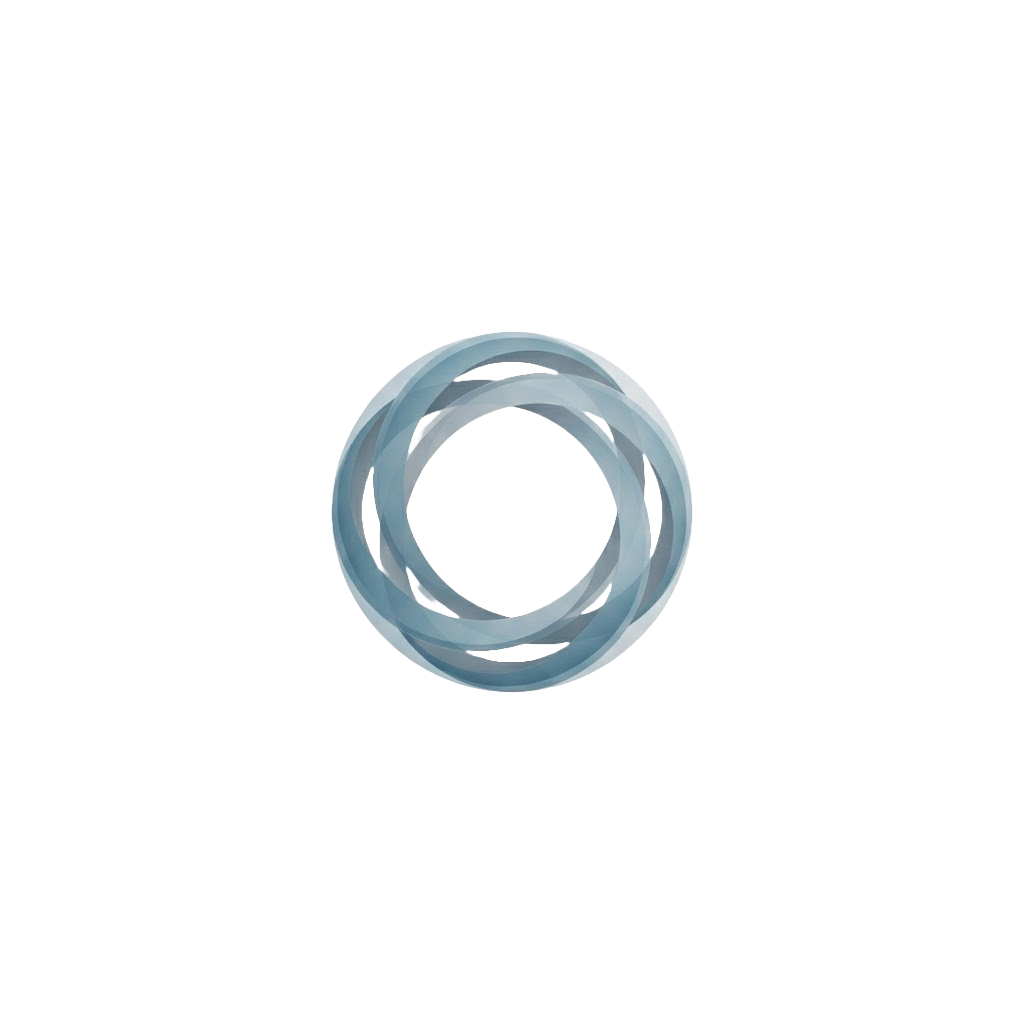
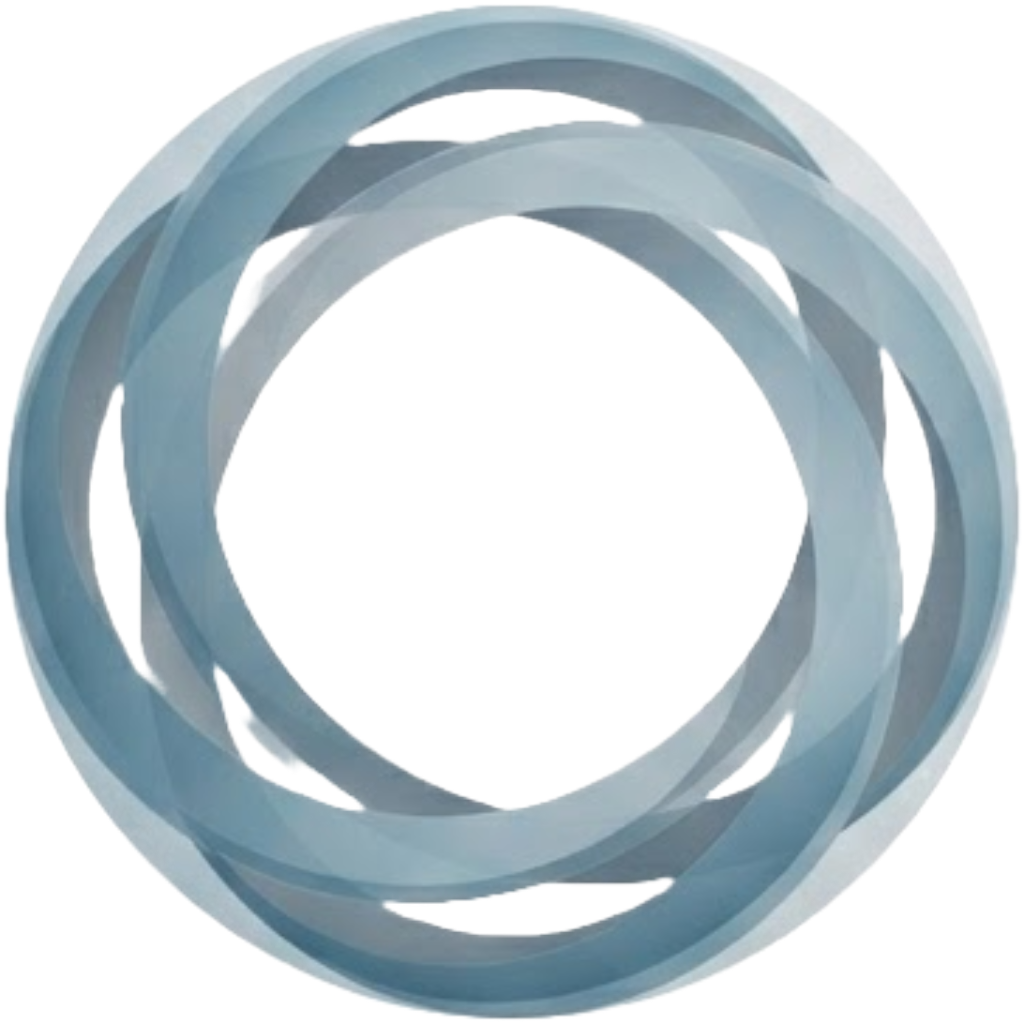
feat: 更新品牌标识，替换为 WayTrip 标志和图标

diff --git a/travel-miniapp/src/pages/spot/nearby.vue b/travel-miniapp/src/pages/spot/nearby.vue
@@ -78,7 +78,7 @@ const loading = ref(false)
 const locationStatus = ref('idle')
 
 // 常量配置
-const markerIcon = '/static/tabbar/spot-active.png'
+const markerIcon = '/static/marker/spot.png'
 const MAX_NEARBY_DISTANCE_KM = 100
 
 // 工具方法
@@ -156,7 +156,7 @@ const mapCenter = computed(() => {
 })
 
 const markers = computed(() => {
-  const spotMarkers = displaySpots.value.map((spot, index) => ({
+  return displaySpots.value.map((spot, index) => ({
     id: Number(spot.id),
     latitude: spot.latitude,
     longitude: spot.longitude,
@@ -166,28 +166,11 @@ const markers = computed(() => {
     zIndex: 10 + index,
     callout: {
       content: `${spot.name} ${formatDistance(spot.distanceKm)}`,
-      display: 'BYCLICK',
+      display: 'ALWAYS',
       padding: 6,
       borderRadius: 10
     }
   }))
-
-  const locationLatitude = toFiniteNumber(locationInfo.value?.latitude)
-  const locationLongitude = toFiniteNumber(locationInfo.value?.longitude)
-  if (isValidCoordinate(locationLatitude, locationLongitude)) {
-    spotMarkers.push({
-      id: -1,
-      latitude: locationLatitude,
-      longitude: locationLongitude,
-      iconPath: markerIcon,
-      width: 18,
-      height: 22,
-      alpha: 0.7,
-      zIndex: 9
-    })
-  }
-
-  return spotMarkers
 })
 
 const emptyTitle = computed(() => {

diff --git a/travel-miniapp/src/pages/index/index.vue b/travel-miniapp/src/pages/index/index.vue
@@ -112,7 +112,7 @@ const nearbySessionToken = ref('')
 const lastHomeRefreshAt = ref(0)
 
 // 常量配置
-const markerIcon = '/static/tabbar/spot-active.png'
+const markerIcon = '/static/marker/spot.png'
 const HOME_BASE_CACHE_KEY = 'waytrip:miniapp:home:base'
 const HOME_BASE_CACHE_TTL_MS = 2 * 60 * 1000
 const HOME_REFRESH_INTERVAL_MS = 30 * 1000
@@ -181,7 +181,7 @@ const nearbyMapCenter = computed(() => {
 })
 
 const nearbyMarkers = computed(() => {
-  const markers = displayNearbySpots.value.slice(0, 3).map((spot, index) => ({
+  return displayNearbySpots.value.slice(0, 3).map((spot, index) => ({
     id: Number(spot.id),
     latitude: spot.latitude,
     longitude: spot.longitude,
@@ -196,23 +196,6 @@ const nearbyMarkers = computed(() => {
       borderRadius: 10
     }
   }))
-
-  const locationLatitude = toFiniteNumber(nearbyLocation.value?.latitude)
-  const locationLongitude = toFiniteNumber(nearbyLocation.value?.longitude)
-  if (isValidCoordinate(locationLatitude, locationLongitude)) {
-    markers.push({
-      id: -1,
-      latitude: locationLatitude,
-      longitude: locationLongitude,
-      iconPath: markerIcon,
-      width: 18,
-      height: 22,
-      alpha: 0.7,
-      zIndex: 9
-    })
-  }
-
-  return markers
 })
 
 const nearbyHeadline = computed(() => {

diff --git a/travel-miniapp/src/pages/mine/components/AuthPopup.vue b/travel-miniapp/src/pages/mine/components/AuthPopup.vue
@@ -3,7 +3,7 @@
     <!-- ========== 第一步：强制设置手机号和密码 ========== -->
     <view class="auth-mask" v-if="step === 1">
       <view class="auth-panel">
-        <image class="auth-brand-mark" src="/static/brand/standard-mark.svg" mode="aspectFit" />
+        <image class="auth-brand-mark" src="/static/brand/waytrip-standard-mark.svg" mode="aspectFit" />
         <view class="auth-head">
           <text class="auth-kicker">WayTrip Account</text>
           <text class="auth-title">完成账号设置</text>
@@ -56,7 +56,7 @@
     <!-- ========== 第二步：可选设置头像和昵称 ========== -->
     <view class="auth-mask" v-if="step === 2">
       <view class="auth-panel">
-        <image class="auth-brand-mark" src="/static/brand/standard-mark.svg" mode="aspectFit" />
+        <image class="auth-brand-mark" src="/static/brand/waytrip-standard-mark.svg" mode="aspectFit" />
         <view class="auth-head">
           <text class="auth-kicker">WayTrip Profile</text>
           <text class="auth-title">完善个人资料</text>

diff --git a/travel-web/src/app/layouts/AppShellLayout.vue b/travel-web/src/app/layouts/AppShellLayout.vue
@@ -136,8 +136,8 @@ import { useRouter, useRoute } from 'vue-router'
 import { ElMessage, ElMessageBox } from 'element-plus'
 import { getAvatarUrl } from '@/shared/api/client.js'
 import { ArrowDown, ChatDotRound, Discount, MagicStick, Search, Setting, Stopwatch, Tickets, User, SwitchButton, ArrowLeft } from '@element-plus/icons-vue'
-import brandLogoUrl from '@/shared/assets/brand/standard.svg'
-import brandMarkUrl from '@/shared/assets/brand/standard-mark.svg'
+import brandLogoUrl from '@/shared/assets/brand/waytrip-standard.svg'
+import brandMarkUrl from '@/shared/assets/brand/waytrip-standard-mark.svg'
 
 // 基础依赖与路由状态
 const userStore = useUserStore()

diff --git a/travel-admin/src/app/layout/index.vue b/travel-admin/src/app/layout/index.vue
@@ -235,8 +235,8 @@ import { useTheme } from '@/shared/composables/useTheme.js'
 import { useAdminNotifications } from '@/shared/composables/useAdminNotifications.js'
 import { ElMessage } from 'element-plus'
 import { Fold, Expand, Search, Bell, ArrowDown, Moon, Sunny } from '@element-plus/icons-vue'
-import brandMarkUrl from '@/shared/assets/brand/waytrip-mark.svg'
-import brandLogoUrl from '@/shared/assets/brand/waytrip-logo.svg'
+import brandMarkUrl from '@/shared/assets/brand/waytrip-standard-mark.svg'
+import brandLogoUrl from '@/shared/assets/brand/waytrip-standard.svg'
 
 const router = useRouter()
 const route = useRoute()

diff --git a/travel-web/src/app/layouts/AuthLayout.vue b/travel-web/src/app/layouts/AuthLayout.vue
@@ -3,7 +3,7 @@
   <div class="auth-layout">
     <header class="auth-header">
       <router-link to="/" class="brand-link" :aria-label="`${APP_NAME} 首页`">
-        <img :src="brandMarkUrl" :alt="APP_NAME" class="brand-mark">
+        <img :src="brandLogoUrl" :alt="APP_NAME" class="brand-mark">
       </router-link>
     </header>
 
@@ -23,7 +23,7 @@
 
 <script setup>
 import { APP_NAME } from '@/shared/constants/app.js'
-import brandMarkUrl from '@/shared/assets/brand/standard.svg'
+import brandLogoUrl from '@/shared/assets/brand/waytrip-standard.svg'
 </script>
 
 <style lang="scss" scoped>

diff --git a/travel-miniapp/src/pages/mine/index.vue b/travel-miniapp/src/pages/mine/index.vue
@@ -5,7 +5,7 @@
     <view class="profile-hero" :class="{ guest: !isLoggedIn }" @click="!isLoggedIn ? doLogin() : null">
       <image
         class="profile-brand"
-        :src="isLoggedIn ? '/static/brand/mono-mark.svg' : '/static/brand/mono.svg'"
+        :src="isLoggedIn ? '/static/brand/waytrip-mono-mark.svg' : '/static/brand/waytrip-mono.svg'"
         :mode="isLoggedIn ? 'aspectFit' : 'widthFix'"
       />
       <view class="profile-header">

diff --git a/travel-admin/src/modules/system/pages/login.vue b/travel-admin/src/modules/system/pages/login.vue
@@ -72,7 +72,7 @@ import { ref, reactive } from 'vue'
 import { useRouter } from 'vue-router'
 import { useUserStore } from '@/app/store/user.js'
 import { ElMessage } from 'element-plus'
-import brandLogoUrl from '@/shared/assets/brand/waytrip-logo.svg'
+import brandLogoUrl from '@/shared/assets/brand/waytrip-standard.svg'
 import { useTheme } from '@/shared/composables/useTheme.js'
 import { THEME_MODE_OPTIONS } from '@/shared/constants/theme.js'
 

diff --git a/travel-miniapp/src/pages/index/components/HomeHeader.vue b/travel-miniapp/src/pages/index/components/HomeHeader.vue
@@ -1,6 +1,6 @@
 <template>
   <view class="ios-header">
-    <image class="hero-brand-bg" src="/static/brand/standard.svg" mode="widthFix" />
+    <image class="hero-brand-bg" src="/static/brand/waytrip-standard.svg" mode="widthFix" />
     <view class="header-top">
       <view class="search-bar" @click="$emit('goSearch')">
         <uni-search-bar

diff --git a/travel-miniapp/src/pages/discover/index.vue b/travel-miniapp/src/pages/discover/index.vue
@@ -15,7 +15,7 @@
             bgColor="rgba(255, 255, 255, 0.6)"
           />
         </view>
-        <image class="brand-mark" src="/static/brand/standard-mark.svg" mode="aspectFit" />
+        <image class="brand-mark" src="/static/brand/waytrip-standard-mark.svg" mode="aspectFit" />
       </view>
     </view>
 
